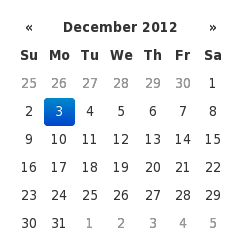
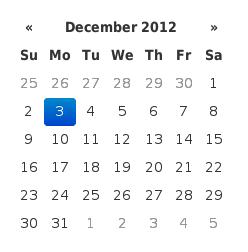
Prepare 1.3.1 release

diff --git a/css/datepicker3.css b/css/datepicker3.css
@@ -743,7 +743,7 @@ fieldset[disabled] .datepicker table tr td span.active.disabled:hover.active {
   min-width: 16px;
   padding: 4px 5px;
   font-weight: normal;
-  line-height: 1.428571429;
+  line-height: 1.42857143;
   text-align: center;
   text-shadow: 0 1px 0 #fff;
   vertical-align: middle;
@@ -775,9 +775,8 @@ fieldset[disabled] .datepicker table tr td span.active.disabled:hover.active {
   *border-right-width: 2px;
   *border-bottom-width: 2px;
   color: #333333;
-  font-family: "Helvetica Neue", Helvetica, Arial, sans-serif;
   font-size: 13px;
-  line-height: 1.428571429;
+  line-height: 1.42857143;
 }
 .datepicker.dropdown-menu th,
 .datepicker.datepicker-inline th,
